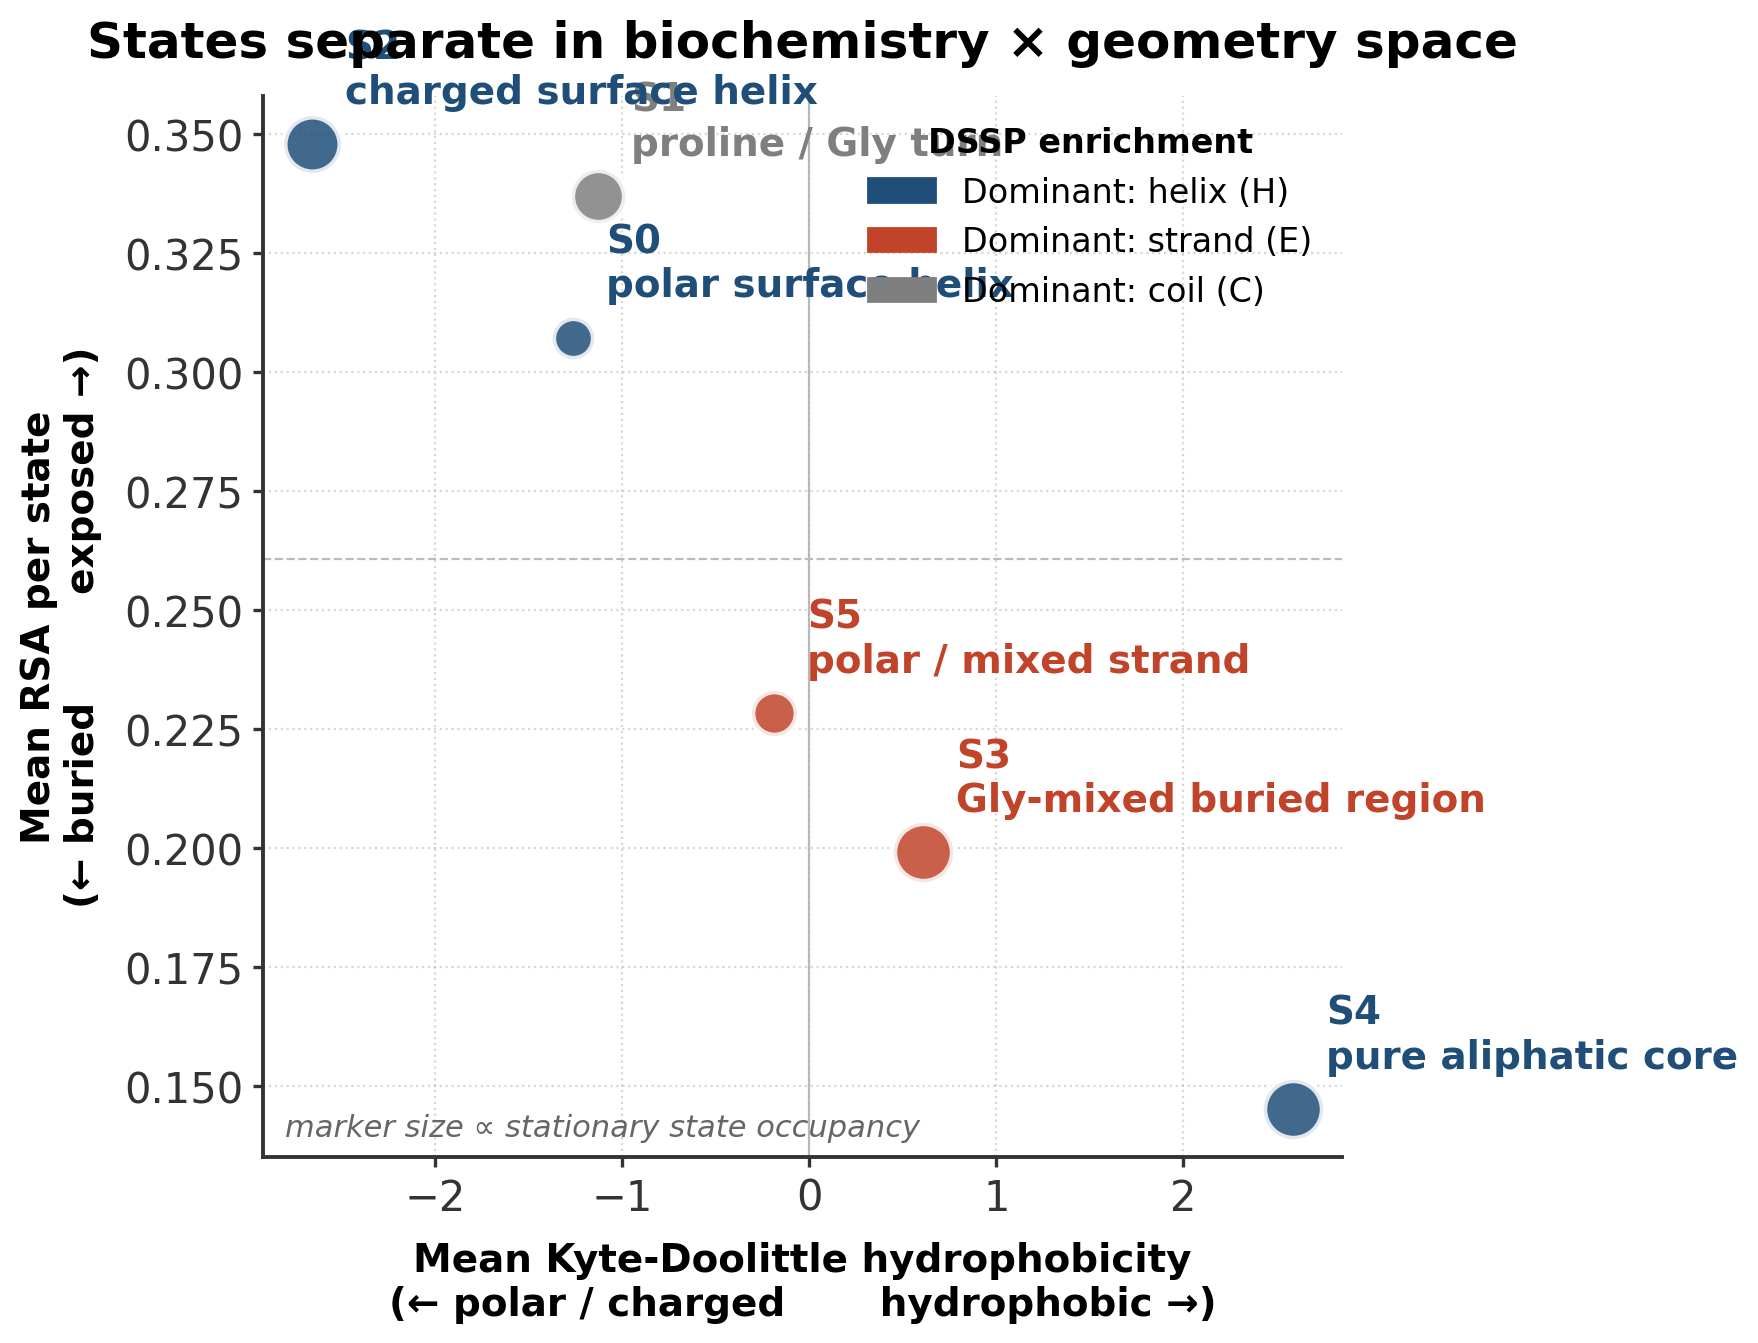
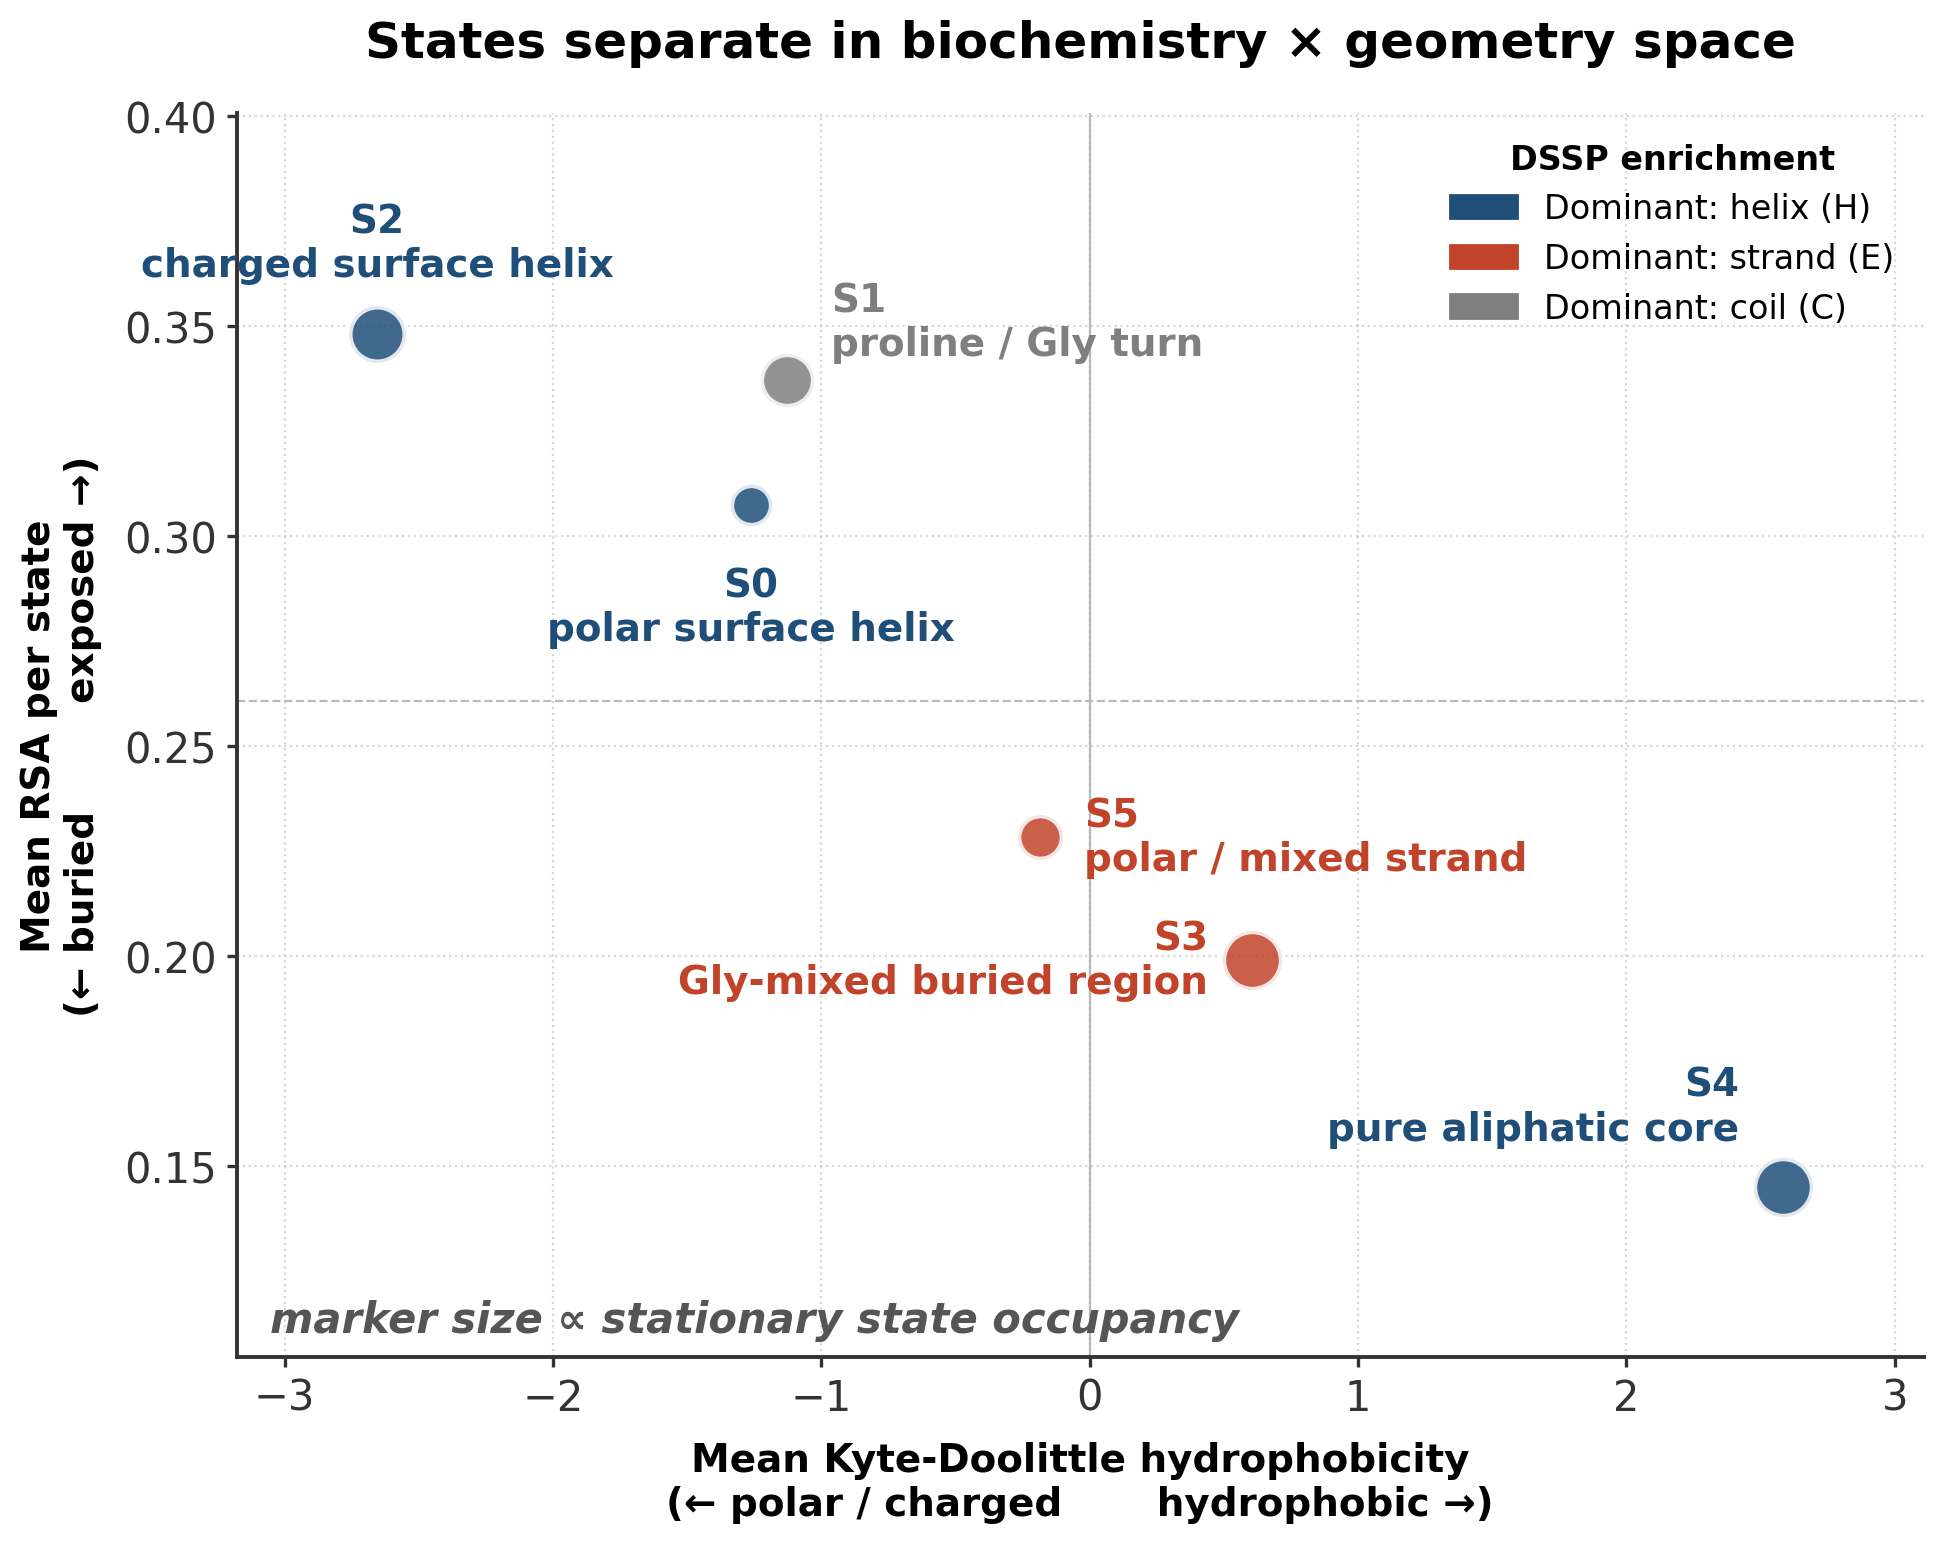
fix label overlaps in KD-vs-RSA scatter; enlarge occupancy caption
Per-K LABEL_PLACEMENT_BY_K dict assigns each state's label its own
offset (above / below / left / right) so the upper-left cluster
(S0/S1/S2) and the bottom-right pair (S3/S4) no longer collide. Adds
12-30% padding to the y-axis so above-marker labels don't crash into
the title. The 'marker size ∝ stationary state occupancy' caption is
now 15pt bold (was 11pt regular).

diff --git a/scripts/make_state_summary_figures.py b/scripts/make_state_summary_figures.py
@@ -52,6 +52,25 @@ STATE_INTERPRETATION_BY_K: dict[int, dict[int, str]] = {
     },
 }
 
+# Per-state (offset_x_pts, offset_y_pts, ha, va) for the KD x RSA scatter
+# labels. Tuned to avoid overlap with neighbouring markers and the legend.
+LABEL_PLACEMENT_BY_K: dict[int, dict[int, tuple[int, int, str, str]]] = {
+    4: {
+        0: (14, 12, "left", "bottom"),
+        1: (14, 12, "left", "bottom"),
+        2: (14, 12, "left", "bottom"),
+        3: (-14, 12, "right", "bottom"),
+    },
+    6: {
+        0: (0, -22, "center", "top"),      # directly below (clear of S1 above)
+        1: (16, 6, "left", "bottom"),      # right (clear of S0 below, S2 left)
+        2: (0, 18, "center", "bottom"),    # directly above (top-left of canvas)
+        3: (-16, 0, "right", "center"),    # left (clear of S4 below-right, S5 above)
+        4: (-16, 14, "right", "bottom"),   # above-left (rightmost marker)
+        5: (16, 0, "left", "center"),      # right (clear of S3 below-right)
+    },
+}
+
 
 def _state_summary(model: DiscreteHMM, rsa_means: list[float], dssp_enrichment: np.ndarray) -> list[dict]:
     if model.params is None:
@@ -85,7 +104,9 @@ def _state_summary(model: DiscreteHMM, rsa_means: list[float], dssp_enrichment: 
 
 def plot_kd_vs_rsa(summaries, fig_dir: Path) -> None:
     apply_style()
-    fig, ax = plt.subplots(figsize=(9, 7))
+    fig, ax = plt.subplots(figsize=(10, 8))
+    K = len(summaries)
+    placements = LABEL_PLACEMENT_BY_K.get(K, {})
     for s in summaries:
         color = DSSP_COLORS[s["dominant_dssp"]]
         size = 2200 * s["stationary"]
@@ -98,38 +119,51 @@ def plot_kd_vs_rsa(summaries, fig_dir: Path) -> None:
             linewidths=2.5,
             zorder=3,
         )
+        offset_x, offset_y, ha, va = placements.get(
+            s["state"], (12, 12, "left", "bottom"),
+        )
         ax.annotate(
             f"S{s['state']}\n{s['interpretation']}",
             xy=(s["kd"], s["rsa"]),
-            xytext=(12, 12),
+            xytext=(offset_x, offset_y),
             textcoords="offset points",
             fontsize=14,
             fontweight="bold",
             color=color,
-            ha="left",
-            va="bottom",
+            ha=ha,
+            va=va,
         )
     ax.axvline(0.0, color="#bbbbbb", linewidth=0.8, zorder=1)
     avg_rsa = float(np.mean([s["rsa"] for s in summaries]))
     ax.axhline(avg_rsa, color="#bbbbbb", linewidth=0.8, zorder=1, linestyle="--")
     ax.set_xlabel("Mean Kyte-Doolittle hydrophobicity\n(← polar / charged       hydrophobic →)", fontsize=14)
     ax.set_ylabel("Mean RSA per state\n(← buried        exposed →)", fontsize=14)
-    ax.set_title("States separate in biochemistry × geometry space", fontsize=18, fontweight="bold", pad=14)
+    ax.set_title("States separate in biochemistry × geometry space", fontsize=18, fontweight="bold", pad=20)
     ax.grid(axis="both", linestyle=":", alpha=0.5)
+    # Add headroom above the highest marker so above-marker labels don't crash into the title.
+    rsa_values = [s["rsa"] for s in summaries]
+    kd_values = [s["kd"] for s in summaries]
+    rsa_min, rsa_max = min(rsa_values), max(rsa_values)
+    rsa_pad = (rsa_max - rsa_min) * 0.20
+    ax.set_ylim(rsa_min - rsa_pad, rsa_max + rsa_pad * 1.3)
+    kd_min, kd_max = min(kd_values), max(kd_values)
+    kd_pad = (kd_max - kd_min) * 0.10
+    ax.set_xlim(kd_min - kd_pad, kd_max + kd_pad)
 
     handles = [
         mpatches.Patch(color=DSSP_COLORS["H"], label="Dominant: helix (H)"),
         mpatches.Patch(color=DSSP_COLORS["E"], label="Dominant: strand (E)"),
         mpatches.Patch(color=DSSP_COLORS["C"], label="Dominant: coil (C)"),
     ]
-    legend = ax.legend(handles=handles, loc="upper right", fontsize=12, framealpha=0.95)
+    legend = ax.legend(handles=handles, loc="upper right", fontsize=12, framealpha=0.95,
+                       bbox_to_anchor=(1.0, 1.0))
     legend.set_title("DSSP enrichment", prop={"size": 12, "weight": "bold"})
 
     ax.text(
         0.02, 0.02,
         "marker size ∝ stationary state occupancy",
         transform=ax.transAxes,
-        fontsize=11, color="#666", style="italic",
+        fontsize=15, color="#555", style="italic", fontweight="bold",
     )
     fig.tight_layout()
     fig.savefig(fig_dir / "state_kd_vs_rsa_scatter.png", dpi=200)
